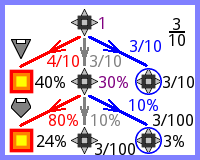
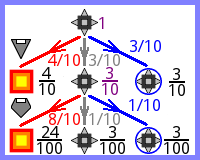
allow options in the library

diff --git a/core/src/com/hbp/probdef/BookScreen_Tree.java b/core/src/com/hbp/probdef/BookScreen_Tree.java
@@ -5,6 +5,7 @@ import com.badlogic.gdx.graphics.g2d.SpriteBatch;
 
 import com.hbp.probdef.ProbDef;
 import com.badlogic.gdx.graphics.Texture;
+import com.badlogic.gdx.math.Rectangle;
 public class BookScreen_Tree extends GenericBookScreen {
 	
 	final ProbDef game;
@@ -12,7 +13,22 @@ public class BookScreen_Tree extends GenericBookScreen {
 	private SpriteBatch batch;
 
 	private Texture tree_percentage;
+	private Texture tree_decimal;
+	private Texture tree_fraction;
 	
+	private Texture lb_percentage_t;
+	private Texture lb_fraction_t;
+	private Texture lb_decimal_t;
+	
+	private Texture lb_trim_blue_t;
+	private Texture lb_trim_orange_t;
+	
+	private Rectangle lb_percentage_r;
+	private Rectangle lb_fraction_r;
+	private Rectangle lb_decimal_r;
+	
+	private String which_tree;
+
 	
 	public BookScreen_Tree(final ProbDef gam, boolean play_the_sound) {
 		
@@ -20,20 +36,75 @@ public class BookScreen_Tree extends GenericBookScreen {
 		
 		game = gam;
 		
-		maxpages=4;
+		maxpages=6;
 		
 		batch=new SpriteBatch();
 		
-		tree_percentage=new Texture(Gdx.files.internal("TREE_III.png"));
+		tree_percentage=new Texture(Gdx.files.internal("TREE_CENT.png"));
+		tree_decimal=new Texture(Gdx.files.internal("TREE_DECI.png"));
+		tree_fraction=new Texture(Gdx.files.internal("TREE_FRAC.png"));
+		
+		lb_percentage_t=new Texture(Gdx.files.internal("little_button_cent.png"));
+		lb_decimal_t=new Texture(Gdx.files.internal("little_button_deci.png"));
+		lb_fraction_t=new Texture(Gdx.files.internal("little_button_frac.png"));
+		
+		lb_percentage_r=new Rectangle(20, 355, 80,40);
+		lb_fraction_r=new Rectangle(120, 355, 80,40);
+		lb_decimal_r=new Rectangle(220, 355, 80,40);
+		
+		
+		lb_trim_blue_t=new Texture(Gdx.files.internal("little_button_blue_trim.png"));
+		lb_trim_orange_t=new Texture(Gdx.files.internal("little_button_orange_trim.png"));
+		
+		
+		which_tree="percentage";
 	}
 
 	@Override
 	public void render(float delta) {
 		generic_book_render(delta);
 		
-		if (page==2){
+		if (page==2 || page==3 || page==4){
 			batch.begin();
-			batch.draw(tree_percentage, 60, 190);
+			
+			batch.draw(lb_percentage_t, lb_percentage_r.x, lb_percentage_r.y);
+			batch.draw(lb_decimal_t, lb_decimal_r.x, lb_decimal_r.y);
+			batch.draw(lb_fraction_t, lb_fraction_r.x, lb_fraction_r.y);
+			
+			if (which_tree.equals("percentage")){
+				batch.draw(tree_percentage, 60, 190);
+				batch.draw(lb_trim_orange_t, lb_percentage_r.x, lb_percentage_r.y);
+			}
+			if (which_tree.equals("decimal")){
+				batch.draw(tree_decimal, 60, 190);
+				batch.draw(lb_trim_orange_t, lb_decimal_r.x, lb_decimal_r.y);
+			}
+			if (which_tree.equals("fraction")){
+				batch.draw(tree_fraction, 60, 190);
+				batch.draw(lb_trim_orange_t, lb_fraction_r.x, lb_fraction_r.y);
+			}
+			
+			if (lb_percentage_r.contains(tp_x, tp_y)){
+				batch.draw(lb_trim_blue_t, lb_percentage_r.x, lb_percentage_r.y);
+				if (Gdx.input.justTouched()){
+					which_tree="percentage";
+				}
+			}
+			if (lb_decimal_r.contains(tp_x, tp_y)){
+				batch.draw(lb_trim_blue_t, lb_decimal_r.x, lb_decimal_r.y);
+				if (Gdx.input.justTouched()){
+					which_tree="decimal";
+				}
+			}
+			if (lb_fraction_r.contains(tp_x, tp_y)){
+				batch.draw(lb_trim_blue_t, lb_fraction_r.x, lb_fraction_r.y);
+				if (Gdx.input.justTouched()){
+					which_tree="fraction";
+				}
+			}
+			
+			
+			
 			batch.end();
 		}
 	}
@@ -44,7 +115,7 @@ public class BookScreen_Tree extends GenericBookScreen {
 		   turret_one=new Turret_Standard("triangle");
 		   turret_two=new Turret_Standard("pentagon");
 		   turret_three=new Turret_Standard("square");
-		   turret_four=new Turret_Standard("hexagon");
+		   turret_four=new Turret_Standard("circle");
 		   
 		   turrets_standard.add((Turret_Standard) turret_one);
 		   turrets_standard.add((Turret_Standard) turret_two);
@@ -67,15 +138,12 @@ public class BookScreen_Tree extends GenericBookScreen {
 				spawnMine(0,95);
 			}
 		}
-		if (page==2){
-			
-		}
-		if (page==3){
+		if (page==5){
 			if (seconds==2){
 				spawnMine(0,95);
 			}
 		}
-		if (page==4){
+		if (page==6){
 			if (seconds==2){
 				spawnMine(0,95);
 			}
@@ -91,7 +159,7 @@ public class BookScreen_Tree extends GenericBookScreen {
 		if (page==1 && seconds<7 && TIMESPEED==0 && turret_one.targeted && turret_two.targeted){
 			draw_textbox_two(text);
 		}
-		else if (page==3){
+		else if (page==5){
 			draw_textbox_two(text);
 		}
 		else{
@@ -114,10 +182,10 @@ public class BookScreen_Tree extends GenericBookScreen {
 				autocalc_and_display("survive");
 			}
 		}
-		if (page==3){
+		if (page==5){
 			autocalc_and_display("destroy");
 		}
-		if (page==4){
+		if (page==6){
 			autocalc_and_display("capture");
 		}
 	}
@@ -182,19 +250,36 @@ public class BookScreen_Tree extends GenericBookScreen {
 			turret_three.does_it_work=false;
 			show_the_text=true;
 			the_text="This reasoning can be shown in a probability tree.\nBranches represent things which can happen each shot.";
-			if (page_time>4){
-				the_text="The number at the root is 100%, since the probability that SOMETHING happens is 100%.";
-			}
-			if (page_time>8){
-				the_text="Each branch multiplies the probability above by the probability along it to get the probability below it.";
-			}
-			if (page_time>10){
+			if (page_time>2){
 				time_to_move_on=true;
 			}
 			
 		}
 		
 		if (page==3){
+					
+				turret_four.does_it_work=false;
+				turret_three.does_it_work=false;
+				show_the_text=true;
+				the_text="The number at the root is 100%, since the probability that SOMETHING happens is 100%.";
+				if (page_time>2){
+					time_to_move_on=true;
+				}
+			}
+		
+		if (page==4){
+			
+			turret_four.does_it_work=false;
+			turret_three.does_it_work=false;
+			show_the_text=true;
+			the_text="Each branch multiplies the probability above by the probability along it to get the probability below it.";
+			if (page_time>2){
+				time_to_move_on=true;
+			}
+			
+		}
+		
+		if (page==5){
 			turret_four.does_it_work=false;
 			if (page_time<4||(seconds==4 && TIMESPEED==0 && turret_one.targeted==false)){
 				show_the_text=true;
@@ -204,7 +289,7 @@ public class BookScreen_Tree extends GenericBookScreen {
 				time_to_move_on=true;
 			}
 		}
-		if (page==4){
+		if (page==6){
 			if (page_time<4||(seconds==4 && TIMESPEED==0 && turret_one.targeted==false)){
 				show_the_text=true;
 				the_text="Extend the tree and use it to find the probability this mine will be captured when all four turrets are targeted.";

diff --git a/core/src/com/hbp/probdef/BookScreen_MoreTrees.java b/core/src/com/hbp/probdef/BookScreen_MoreTrees.java
@@ -31,6 +31,17 @@ public class BookScreen_MoreTrees extends GenericBookScreen {
 	}
 	
 	@Override
+	void draw_textbox(String text){
+		   
+		if (page==1 && seconds==8){
+			draw_textbox_two(text);
+		}
+		else{
+			draw_textbox_one(text);
+		}
+	   }
+	
+	@Override
 	
 	void level_specific_turret_setup(){
 		   turret_one=new Turret_Standard("triangle");
@@ -118,7 +129,7 @@ public class BookScreen_MoreTrees extends GenericBookScreen {
 			if (seconds==8 && TIMESPEED==0){
 				greentext=true;
 				show_the_text=true;
-				the_text="(fyi survival stays 100% after you target your first turret because no one turret can stop a shielded mine alone)";
+				the_text="(btw survival stays 100% after targeting your first turret because no single attack can remove a shielded mine)";
 			}
 			if (page_time>20){
 				time_to_move_on=true;

diff --git a/core/src/com/hbp/probdef/LibrarySelectScreen.java b/core/src/com/hbp/probdef/LibrarySelectScreen.java
@@ -36,6 +36,7 @@ public class LibrarySelectScreen extends GenericSelectScreen {
 	   public void load_in_banner_textures(){
 		   banner_prob_t=new Texture(Gdx.files.internal("banner_probability.png"));
 		   banner_bayes_t=new Texture(Gdx.files.internal("banner_bayes.png"));
+		   banner_pascal_t=new Texture(Gdx.files.internal("banner_pascal.png"));
 	   }
 	   
 	   @Override
@@ -78,9 +79,9 @@ public class LibrarySelectScreen extends GenericSelectScreen {
 			}
 			if(TOPIC.equals("Pascal")){
 				NUMBER_OF_LEVELS=3;
-				banner_t=banner_prob_t;
-				one_s="More Trees";
-				one_double_liner=false;
+				banner_t=banner_pascal_t;
+				one_s="Listing Outcomes";
+				one_double_liner=true;
 				two_s="A Shortcut";
 				two_double_liner=false;
 				three_s="Pascal's Triangle";
